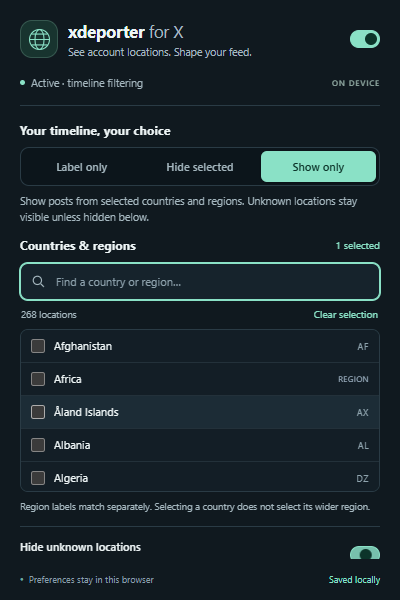
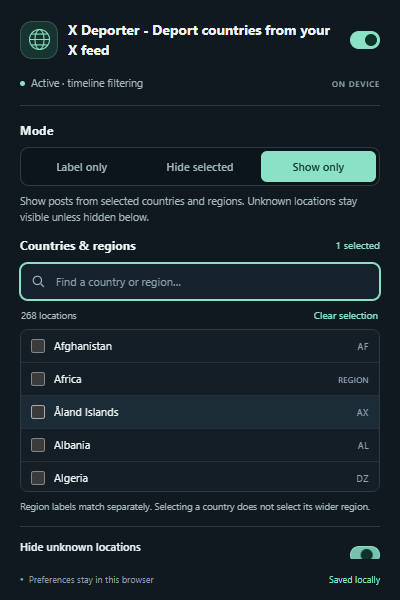
Update popup title and mode wording

diff --git a/extension/popup.html b/extension/popup.html
@@ -3,7 +3,7 @@
   <head>
     <meta charset="utf-8">
     <meta name="viewport" content="width=device-width, initial-scale=1">
-    <title>xdeporter</title>
+    <title>X Deporter - Deport countries from your X feed</title>
     <link rel="stylesheet" href="popup.css">
     <script src="core.js" defer></script>
     <script src="popup.js" defer></script>
@@ -13,9 +13,9 @@
       <div class="brand-mark" aria-hidden="true">
         <svg viewBox="0 0 32 32" fill="none"><circle cx="16" cy="16" r="11"/><ellipse cx="16" cy="16" rx="5" ry="11"/><path d="M5 16h22M7 10h18M7 22h18"/></svg>
       </div>
-      <div class="brand-copy"><h1>xdeporter <span>for X</span></h1><p>See account locations. Shape your feed.</p></div>
-      <label class="switch master-switch" title="Enable xdeporter">
-        <input type="checkbox" id="enabled" aria-label="Enable xdeporter" disabled>
+      <div class="brand-copy"><h1>X Deporter - Deport countries from your X feed</h1></div>
+      <label class="switch master-switch" title="Enable X Deporter">
+        <input type="checkbox" id="enabled" aria-label="Enable X Deporter" disabled>
         <span class="switch-track" aria-hidden="true"></span>
       </label>
     </header>
@@ -24,7 +24,7 @@
       <div class="activity-line"><span class="activity-dot" id="activityDot" aria-hidden="true"></span><span id="activityText">Loading your preferences…</span><span class="local-pill">ON DEVICE</span></div>
       <fieldset id="controls" class="controls" disabled>
         <section class="section mode-section" aria-labelledby="modeHeading">
-          <h2 id="modeHeading">Your timeline, your choice</h2>
+          <h2 id="modeHeading">Mode</h2>
           <fieldset class="mode-picker">
             <legend class="sr-only">Country filter mode</legend>
             <label><input type="radio" name="mode" value="off"><span>Label only</span></label>

diff --git a/extension/popup.css b/extension/popup.css
@@ -19,14 +19,12 @@ button { cursor: pointer; }
 button:disabled { cursor: default; opacity: .45; }
 button:focus-visible, input:focus-visible { outline: 2px solid var(--accent); outline-offset: 3px; }
 h1, h2, p { margin: 0; }
-h1 { font-size: 17px; font-weight: 650; letter-spacing: -.35px; line-height: 1.35; }
-h1 span { color: var(--muted); font-weight: 400; }
+h1 { font-size: 14px; font-weight: 650; letter-spacing: -.15px; line-height: 1.4; }
 h2 { font-size: 12px; font-weight: 650; letter-spacing: .15px; }
 .masthead { display: flex; flex-shrink: 0; align-items: center; gap: 10px; padding: 20px 20px 17px; }
 .brand-mark { flex: 0 0 38px; height: 38px; display: grid; place-items: center; border: 1px solid #36584f; border-radius: 12px; background: #18342f; }
 .brand-mark svg { width: 29px; height: 29px; stroke: var(--accent); stroke-width: 1.2; }
-.brand-copy { flex: 1; }
-.brand-copy p { margin-top: 2px; color: var(--muted); font-size: 10.5px; }
+.brand-copy { flex: 1; min-width: 0; }
 main { padding: 0 20px; min-height: 0; overflow-y: auto; scrollbar-width: thin; scrollbar-color: #415764 transparent; }
 .activity-line { display: flex; align-items: center; gap: 6px; padding-bottom: 15px; border-bottom: 1px solid var(--line); color: var(--muted); font-size: 10.5px; }
 .activity-dot { width: 5px; height: 5px; border-radius: 50%; background: var(--accent); flex-shrink: 0; }

diff --git a/README.md b/README.md
@@ -1,8 +1,8 @@
-# xdeporter
+# X Deporter
 
 Show X's public **account country or region in small blue text beneath the display name** (for example, “Libs of TikTok”), and filter posts using either a hide list or an allow list. Built for desktop Brave and other Chromium browsers using Manifest V3.
 
-**v0.1.2 is a beta.** The filtering, popup, and request bridge have automated coverage. Authenticated lookups have not yet been verified in a live X session. X's undocumented endpoint can change; the extension reports lookup failures and leaves unresolved locations as Unknown.
+**v0.1.3 is a beta.** The filtering, popup, and request bridge have automated coverage. Authenticated lookups have not yet been verified in a live X session. X's undocumented endpoint can change; the extension reports lookup failures and leaves unresolved locations as Unknown.
 
 ![Example of the small blue country label below the display name](docs/timeline-label.png)
 
@@ -10,7 +10,7 @@ Show X's public **account country or region in small blue text beneath the displ
 
 ## Download and install
 
-1. Download **xdeporter-v0.1.2.zip** from [Releases](https://github.com/ceo-of-slop/xdeporter/releases).
+1. Download **xdeporter-v0.1.3.zip** from [Releases](https://github.com/ceo-of-slop/xdeporter/releases).
 2. Extract the ZIP to a permanent folder. Keep that folder after installing.
 3. Open `brave://extensions`, enable **Developer mode**, and click **Load unpacked**.
 4. Select the extracted folder that contains `manifest.json`.
